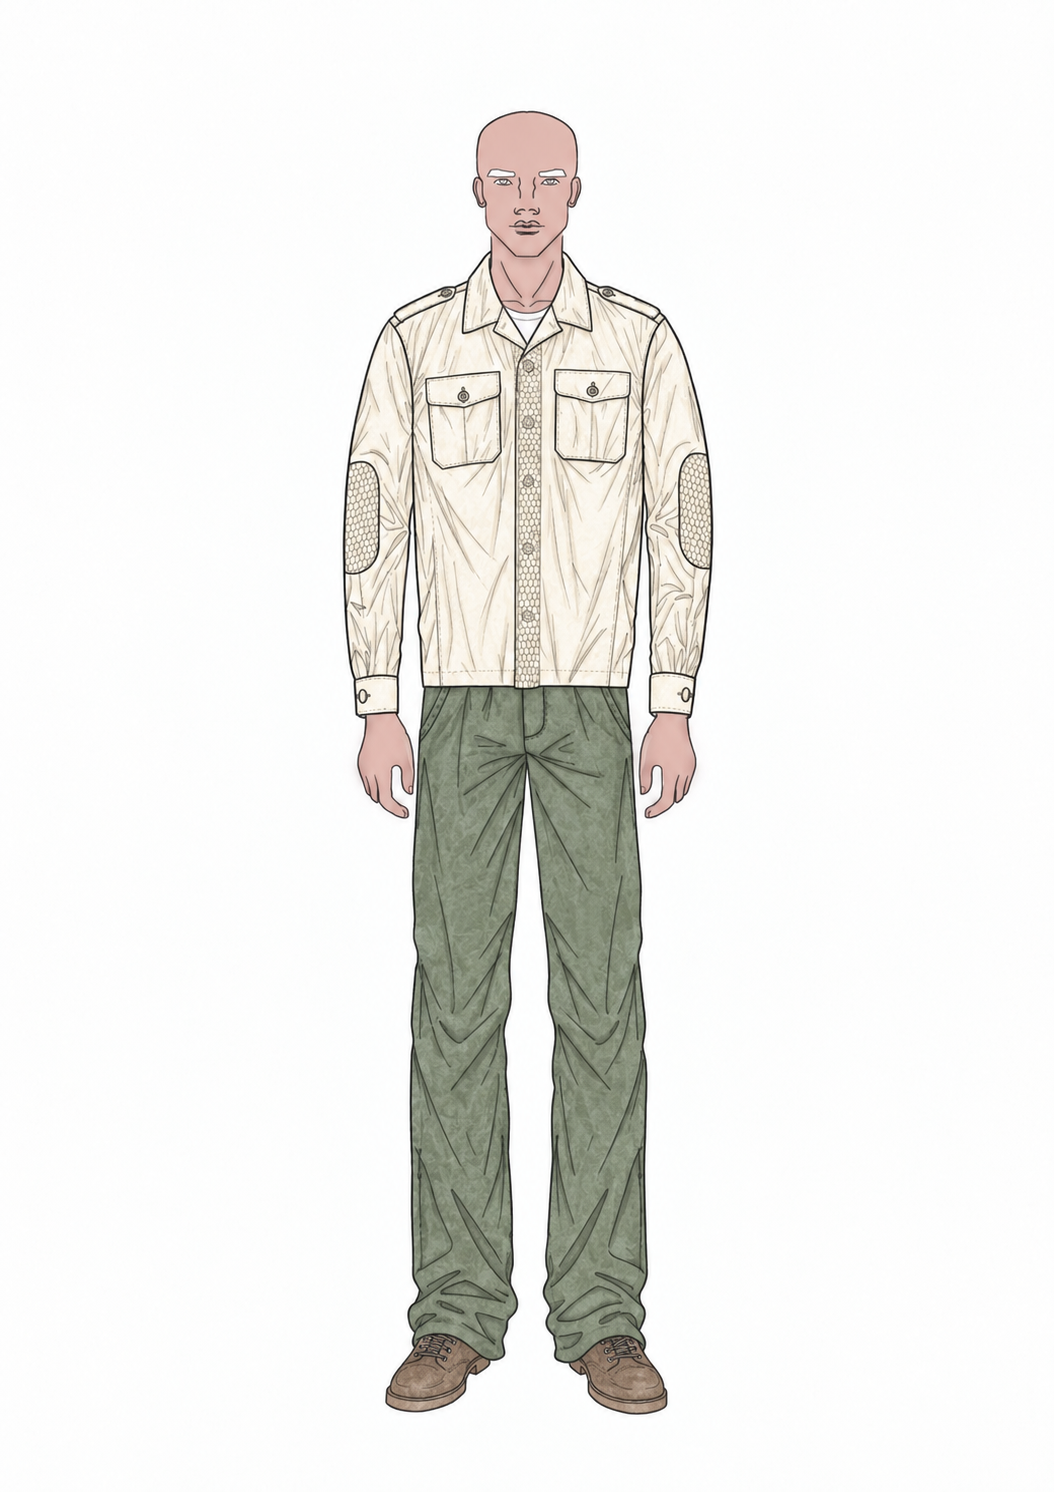
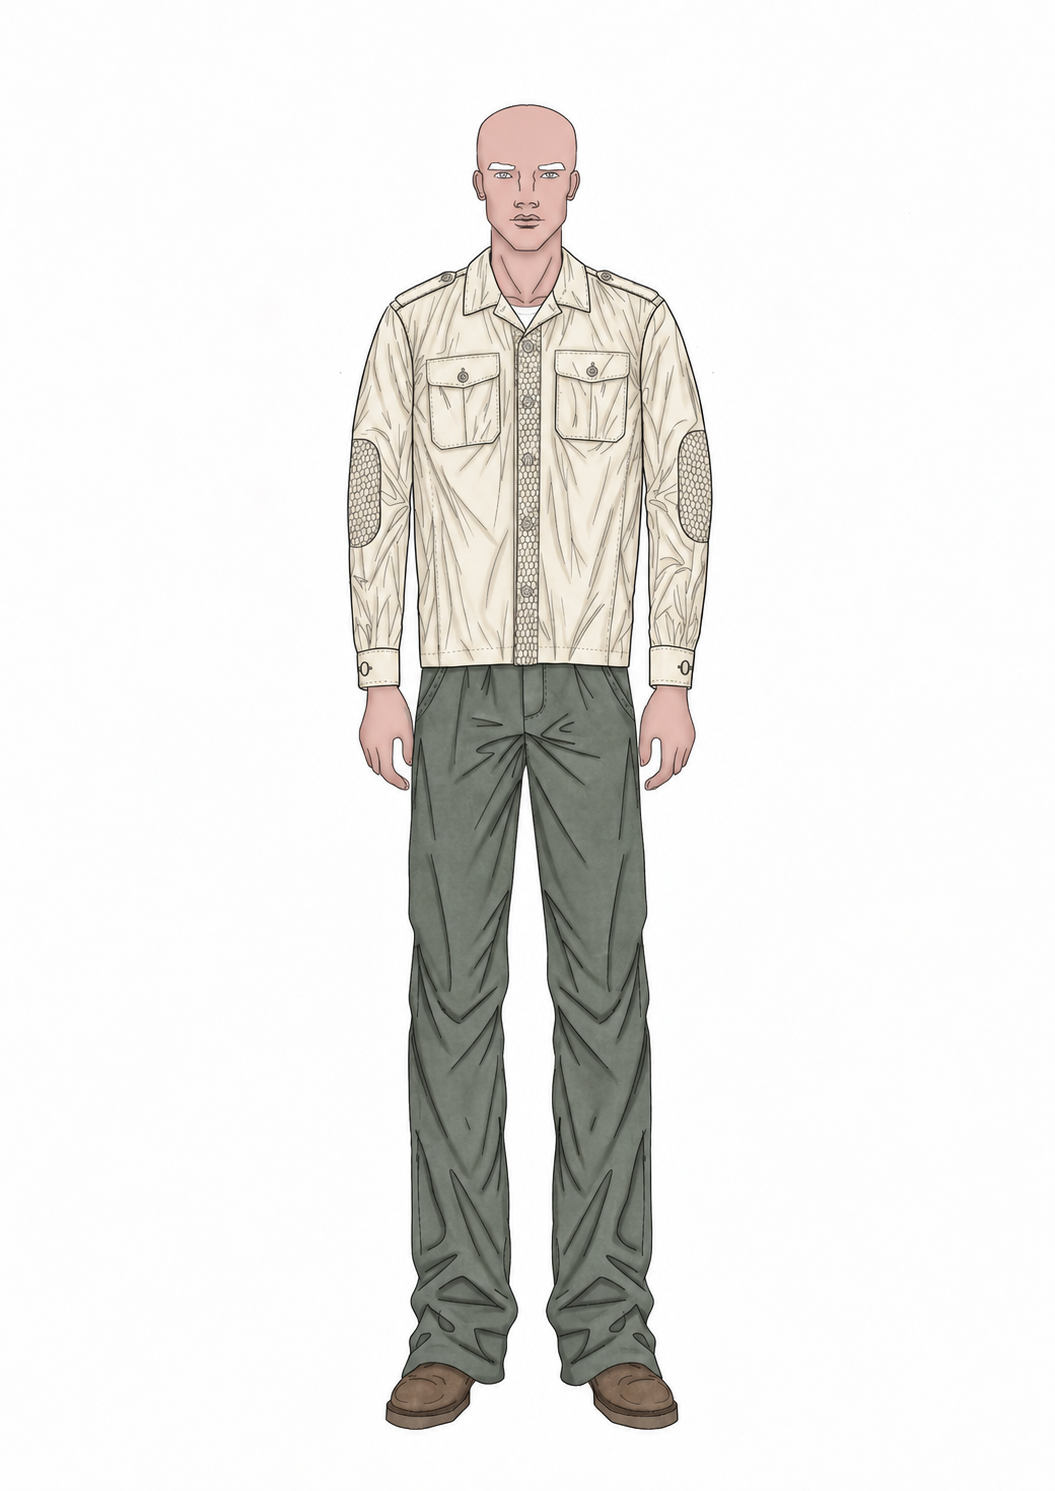
Auto: session 23/09/2026 00:21

Changed region(s): [[0.3036, 0.0617, 0.6983, 0.9564]]

diff --git a/accademia/progetto-fashion-design-cinque-giacche.md b/accademia/progetto-fashion-design-cinque-giacche.md
@@ -200,6 +200,8 @@ Giacca crema lino pesante con pattern honeycomb tono-su-tono su placket/gomiti, 
 
 **File:** `accademia/img-cinque-giacche/giacca3-outfit-FINALE.png` (fronte). Linework pre-colore: `giacca3-outfit-completo-lineart.png` (dopo 2 correzioni sugli stivali: da chelsea a stringati, poi pantalone allungato a bootcut). Iterazioni colore intermedie: `-v1-silhouette-cambiata`, `-v2-troppo-lucido`, `-v3-troppa-grana`.
 
+**Aggiornamento 23/09:** rifatta da zero con la metodologia definitiva (flat + aerografo solo ombra/luce, vedi sezione sotto) — risultato migliore al primo tentativo, `giacca3-outfit-FINALE.png` sostituito con questa versione.
+
 ### Outfit 4 (denim jacket) — COMPLETATO (23/09/2026)
 
 Giacca denim indaco raw con effetto fading (honeycomb gomiti, whiskers, schiarimento spalle/braccia), pantalone bianco ampio/wide-leg (uscito così dalla generazione AI, accettato invece del dritto/regular standard — unica eccezione alla regola pantalone), t-shirt verde scuro (sliver al collo), driving shoes marroni.
